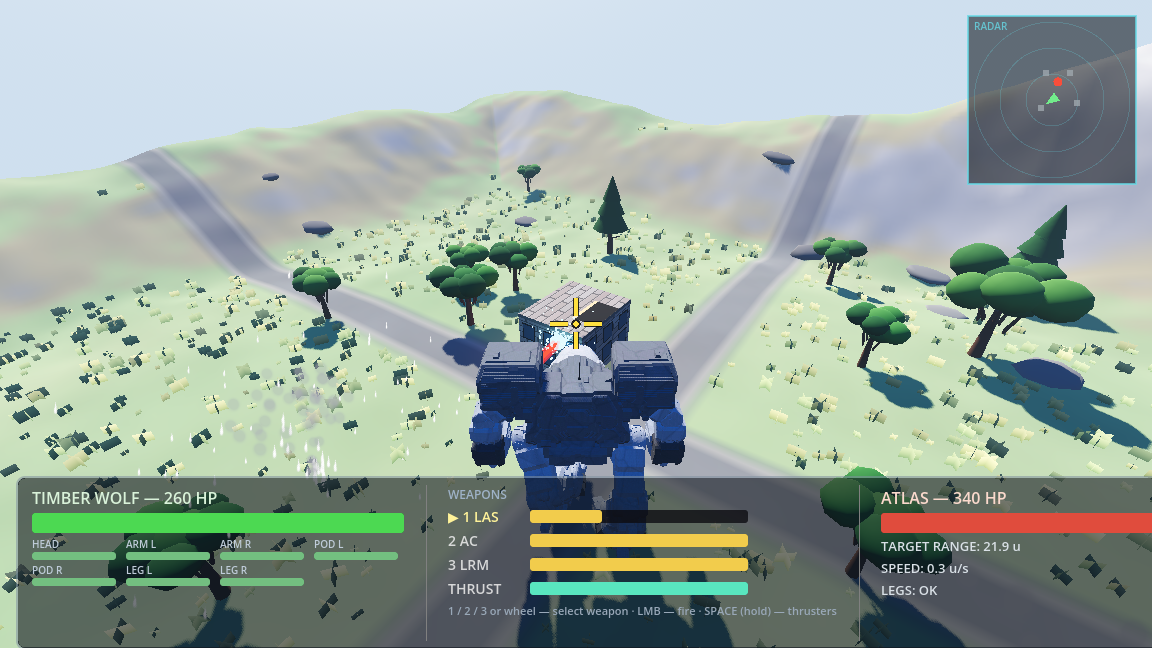
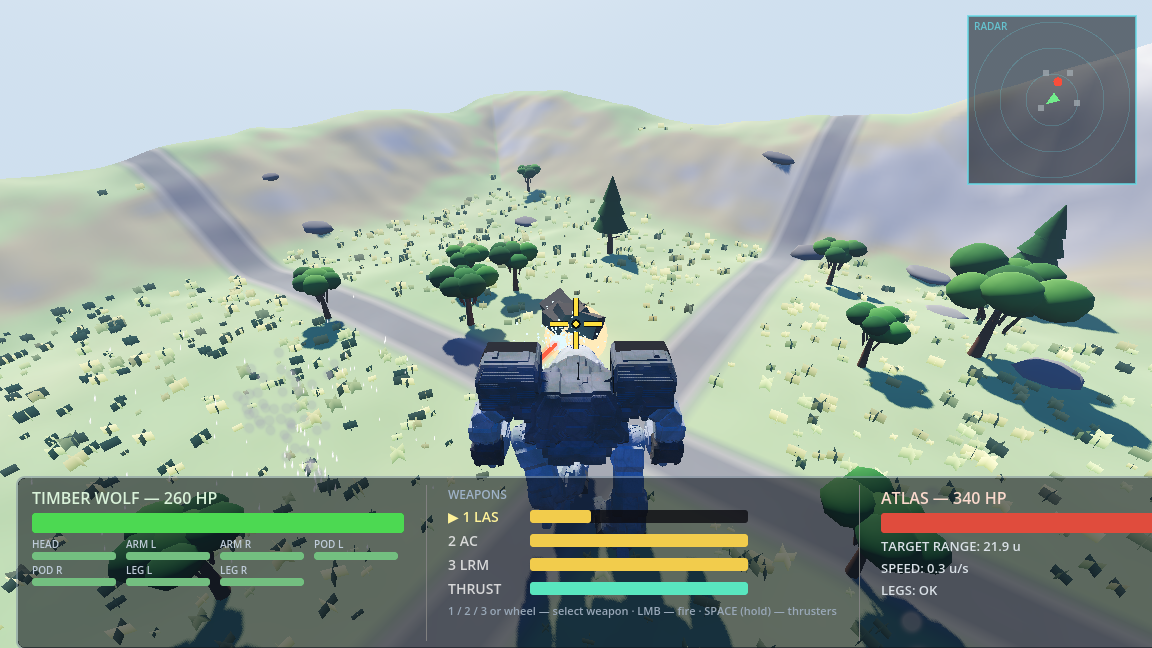
buildings: hide on destruction, explode into pieces, pieces turn to dust
Owner (supersedes round 20's dust-only rule): the original
building now hides the frame it is destroyed — no squash, no
slide underground. 14 facade-material pieces fly, tumble and
settle, each on a ~3s life; on expiry a piece dissolves into a
dust burst. Tree splinters stay permanent. Harness: the tree
splinter delta re-baselines at the shot (dissolving pieces
otherwise pollute it — caught by verify58).

diff --git a/godot/MechDuel.cs b/godot/MechDuel.cs
@@ -59,6 +59,7 @@ public partial class MechDuel : Node3D
         public float AngSpeed;
         public float Radius;
         public bool Settled;
+        public float Life = -1f; // >0: seconds until the piece dissolves into dust (buildings); -1 = permanent (tree splinters)
     }
     private readonly System.Collections.Generic.List<EnvChunk> _envChunks = new();
     private int _envFxEvents; // destruction-FX firings (harness-visible)
@@ -68,7 +69,7 @@ public partial class MechDuel : Node3D
     { AlbedoColor = new Color(0.23f, 0.16f, 0.09f), Roughness = 1f };
 
     private void SpawnChunks(Vector3 center, int count, float sizeMin, float sizeMax,
-        Material mat, float upMin, float upMax)
+        Material mat, float upMin, float upMax, float life = -1f)
     {
         for (int i = 0; i < count; i++)
         {
@@ -90,6 +91,7 @@ public partial class MechDuel : Node3D
                 AngAxis = new Vector3(_fxRng.RandfRange(-1f, 1f), _fxRng.RandfRange(-1f, 1f), _fxRng.RandfRange(-1f, 1f)).Normalized(),
                 AngSpeed = _fxRng.RandfRange(2f, 5.5f),
                 Radius = size * 0.55f,
+                Life = life > 0f ? life * _fxRng.RandfRange(0.8f, 1.25f) : -1f,
             });
         }
     }
@@ -97,6 +99,18 @@ public partial class MechDuel : Node3D
     private void StepEnvChunks(float dt)
     {
         if (_envChunks.Count == 0 || dt <= 0f) return;
+        // Timed pieces (building debris) dissolve into dust.
+        for (int i = _envChunks.Count - 1; i >= 0; i--)
+        {
+            var c = _envChunks[i];
+            if (c.Life <= 0f) continue;
+            c.Life -= dt;
+            if (c.Life > 0f) continue;
+            SpawnBurst(c.Node.GlobalPosition, DustParticleMat, 5, 1.5f, 0.6f, 1.8f, new Vector3(0f, 0.8f, 0f), 0.55f, 0.9f, 1.6f);
+            c.Node.QueueFree();
+            _envChunks.RemoveAt(i);
+        }
+        if (_envChunks.Count == 0) return;
         int n = Mathf.Max(1, Mathf.CeilToInt(dt / (1f / 120f)));
         float h = dt / n;
         for (int step = 0; step < n; step++)
@@ -2702,31 +2716,38 @@ public partial class MechDuel : Node3D
     private void StartCollapse(Destructible d)
     {
         d.State = 2;
-        d.Timer = 1.15f;
-        d.PhaseLen = 1.15f;
+        d.Timer = 3.4f; // pieces fly, settle, then dissolve (~3s lives)
+        d.PhaseLen = 3.4f;
         RemovePropColliders(d); // falling masonry no longer blocks or stops mechs
+        // Round 21 (owner): the original building HIDES the moment
+        // it is destroyed — no more sliding/squashing underground.
+        // Only the pieces and the dust animate from here.
+        if (d.Node is Node3D bn) bn.Visible = false;
         // Destruction is an EVENT now (round 7 — it used to sink
         // silently): an explosion burst at the base, a dust flash, and
         // the facade breaks into chunks that fly, tumble and settle
         // as rubble around the footprint.
         _envFxEvents++;
         var mid = d.Center + Vector3.Up * (d.Height * 0.35f);
+        PlaySfx(_sfxExplosion, mid, 2f, 0.95f);
         SpawnExplosionFx(mid);
         SpawnFlash(mid, new Color(1f, 0.8f, 0.5f), 2.6f, 0.5f);
         SpawnFlash(d.Center + Vector3.Up * 1.5f, new Color(0.75f, 0.72f, 0.66f), 1.9f, 0.35f);
         SpawnImpactLight(mid, new Color(1f, 0.6f, 0.25f), 3.2f, 16f, 0.8f);
-        // Round 20 (owner): a destroyed building turns to DUST, not
-        // blocks — no more facade chunks. A two-layer dust cloud
-        // billows out and hangs, and a low rubble mound stays on the
-        // footprint as the ruin.
+        // Round 21 (owner, supersedes round 20's no-blocks rule):
+        // the building explodes into PIECES (its own facade
+        // material), the pieces settle, then each dissolves into
+        // dust; a two-layer dust cloud billows over the whole event.
+        Material facade = null;
+        if (d.Node is MeshInstance3D fmi)
+            facade = fmi.GetSurfaceOverrideMaterial(0) ?? fmi.Mesh?.SurfaceGetMaterial(0);
+        SpawnChunks(mid, 14, 0.7f, 2.2f, facade ?? RubbleMat, 4f, 8.5f, life: 3.0f);
         SpawnBurst(d.Center + Vector3.Up * 1.2f, DustParticleMat, 46, 3.4f, 2.5f, 7f, new Vector3(0f, 0.9f, 0f), 1.1f, 1.6f, 3.2f);
         SpawnBurst(mid, DustParticleMat, 26, 2.6f, 1.5f, 4.5f, new Vector3(0f, 0.6f, 0f), 0.9f, 1.4f, 2.6f);
-        // The ruin itself is the building's own mesh: UpdateDestructibles
-        // squashes it to 12% height and darkens it to rubble colors.
-        SpawnBurst(mid, FireParticleMat, 64, 1.5f, 5f, 11f, new Vector3(0f, -6f, 0f), 0.2f, 1f, 2f);
+        SpawnBurst(mid, FireParticleMat, 80, 1.5f, 5f, 11f, new Vector3(0f, -6f, 0f), 0.2f, 1f, 2f);
         SpawnBurst(mid, SmokeParticleMat, 36, 3.4f, 1.6f, 3.4f, new Vector3(0f, 1.5f, 0f), 0.6f, 1.8f, 3.2f);
         SpawnBurnEmitter(d.Center + Vector3.Up * 0.6f, 7f);
-        GD.Print($"ENV building at ({d.Center.X:F0},{d.Center.Z:F0}) COLLAPSING (explosion + dust)");
+        GD.Print($"ENV building at ({d.Center.X:F0},{d.Center.Z:F0}) COLLAPSING (hidden, 14 pieces -> dust)");
     }
 
     // Owner's current rule: a tree is destroyed by ANY interaction —
@@ -2798,26 +2819,16 @@ public partial class MechDuel : Node3D
                     GD.Print($"ENV tree at ({d.Center.X:F0},{d.Center.Z:F0}) GONE");
                 }
             }
-            else if (d.State == 2) // building collapsing
+            else if (d.State == 2) // building gone: pieces + dust animate (round 21)
             {
+                // The building node is hidden (StartCollapse); the
+                // pieces fly and dissolve into dust under
+                // StepEnvChunks. Nothing animates on the node itself.
                 d.Timer -= dt;
-                float u = 1f - Mathf.Clamp(d.Timer / d.PhaseLen, 0f, 1f);
-                float sy = 1f - 0.88f * (u * u * (3f - 2f * u));
-                d.Node.Scale = new Vector3(1f, sy, 1f);
-                var np = d.Node.Position;
-                np.Y = d.Center.Y + d.Height * sy / 2f - 0.3f;
-                d.Node.Position = np;
-                // No dust column here anymore (round 20): the
-                // x7-11 trail-puff sprites this block used to spawn
-                // read as giant white plaques in the proof frames.
-                // StartCollapse's real dust particle systems do the
-                // job now.
                 if (d.Timer <= 0f)
                 {
                     d.State = 4;
-                    if (d.Node is MeshInstance3D mi && mi.MaterialOverride is StandardMaterial3D sm)
-                        sm.AlbedoColor = new Color(0.3f, 0.29f, 0.27f); // rubble
-                    GD.Print($"ENV building at ({d.Center.X:F0},{d.Center.Z:F0}) RUBBLE");
+                    GD.Print($"ENV building at ({d.Center.X:F0},{d.Center.Z:F0}) CLEARED (pieces turned to dust)");
                 }
             }
         }
@@ -3648,7 +3659,7 @@ public partial class MechDuel : Node3D
                         if (_fxLights <= 0) { WFail("building collapse lit no impact light"); return; }
                         int bp = _fxParticles - _wEnvParticles0;
                         if (bp < 6) { WFail($"building collapse spawned only {bp} particle systems (want explosion fire+smoke, 2 dust systems, burning wreck)"); return; }
-                        GD.Print($"ENVTEST FX PASS building died with an explosion, a light flash, a dust cloud and {bp} particle systems; the squashed ruin remains");
+                        GD.Print($"ENVTEST FX PASS building died with an explosion, a light flash, a dust cloud and {bp} particle systems; original hidden, pieces flying");
                         QueueCapture("res://proof/env_building_collapse.png", "envCollapse", "duelChase");
                         _wEnvFx0 = _envFxEvents; _wEnvChunks0 = _envChunks.Count; _wEnvParticles0 = _fxParticles;
                         _wEnvStep = 2;
@@ -3700,6 +3711,7 @@ public partial class MechDuel : Node3D
                         if (_aimTarget == "PROP" && conv.DistanceTo(crownCtr) < 3.5f) { onCrown = true; break; }
                     }
                     if (!onCrown) { WFail("no pitch puts the cursor on the crown"); return; }
+                    _wEnvChunks0 = _envChunks.Count; // re-baseline at the shot: building pieces dissolve on their own clock (round 21) and must not pollute the splinter delta
                     FireLaser(conv);
                     if (_wEnvT.State != 3) { WFail($"one hit did not destroy the tree (state={_wEnvT.State})"); return; }
                     var fromT = _player.RootPos + Vector3.Up * 8f;
